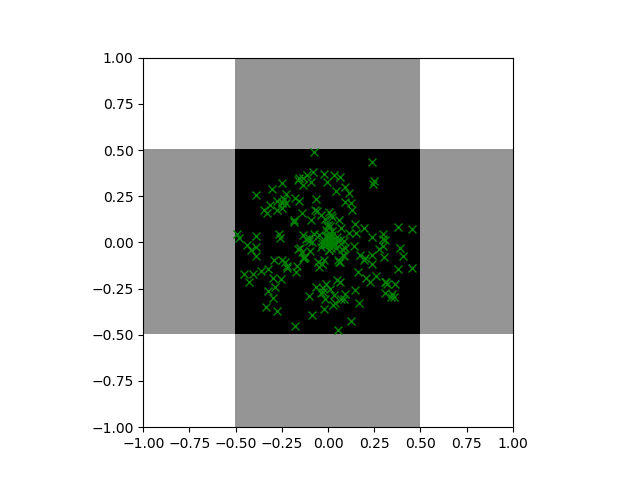
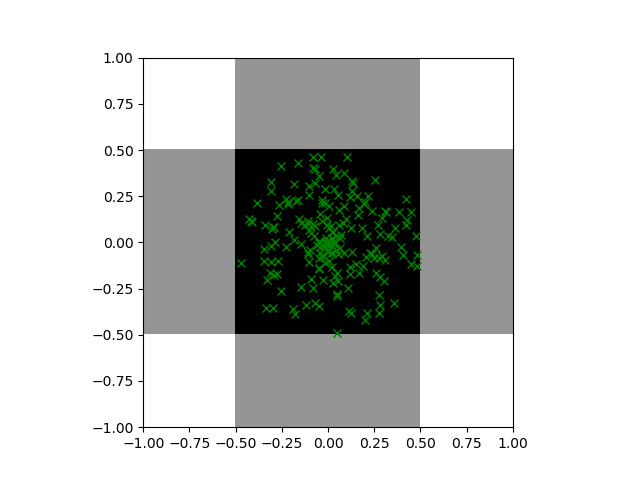
seed random numbers

Changed region(s): [[0.3438, 0.3125, 0.6562, 0.6875], [0.5, 0.6875, 0.5312, 0.7188]]

diff --git a/neural_network/neural_network.py b/neural_network/neural_network.py
@@ -1,4 +1,5 @@
 import numpy as np
+np.random.seed(0)
 import matplotlib.pyplot as plt
 from scipy import stats
 plt.style.use('fast')
@@ -170,9 +171,9 @@ for i, x in enumerate(lx):
             D1[i, j] += 1
         if step(-x - y + 0.71):
             D1[i, j] += 1
-        if step(x - y + 0.71):
+        if step(-x + y + 0.71):
             D1[i, j] += 1
-        if step(-x + y - 0.71):
+        if step(x - y + 0.71):
             D1[i, j] += 1
 axes.imshow(D1, extent = [-1, 1, -1, 1], cmap=plt.get_cmap('Greys'), aspect = 1)
 plt.savefig('img/fig8')

diff --git a/neural_network/README.md b/neural_network/README.md
@@ -17,7 +17,7 @@
 ![](./img/fig7.png)
 ![](./img/fig8.png)
 ### This result is known as the 'Universal Approximation Theorem'. The problem is, we could need many partitions.
-
+![](./img/fig9.png)
 
 ### In practise, we use continous functions which approximate the step function
-![](./img/fig8.png)
+![](./img/fig10.png)
